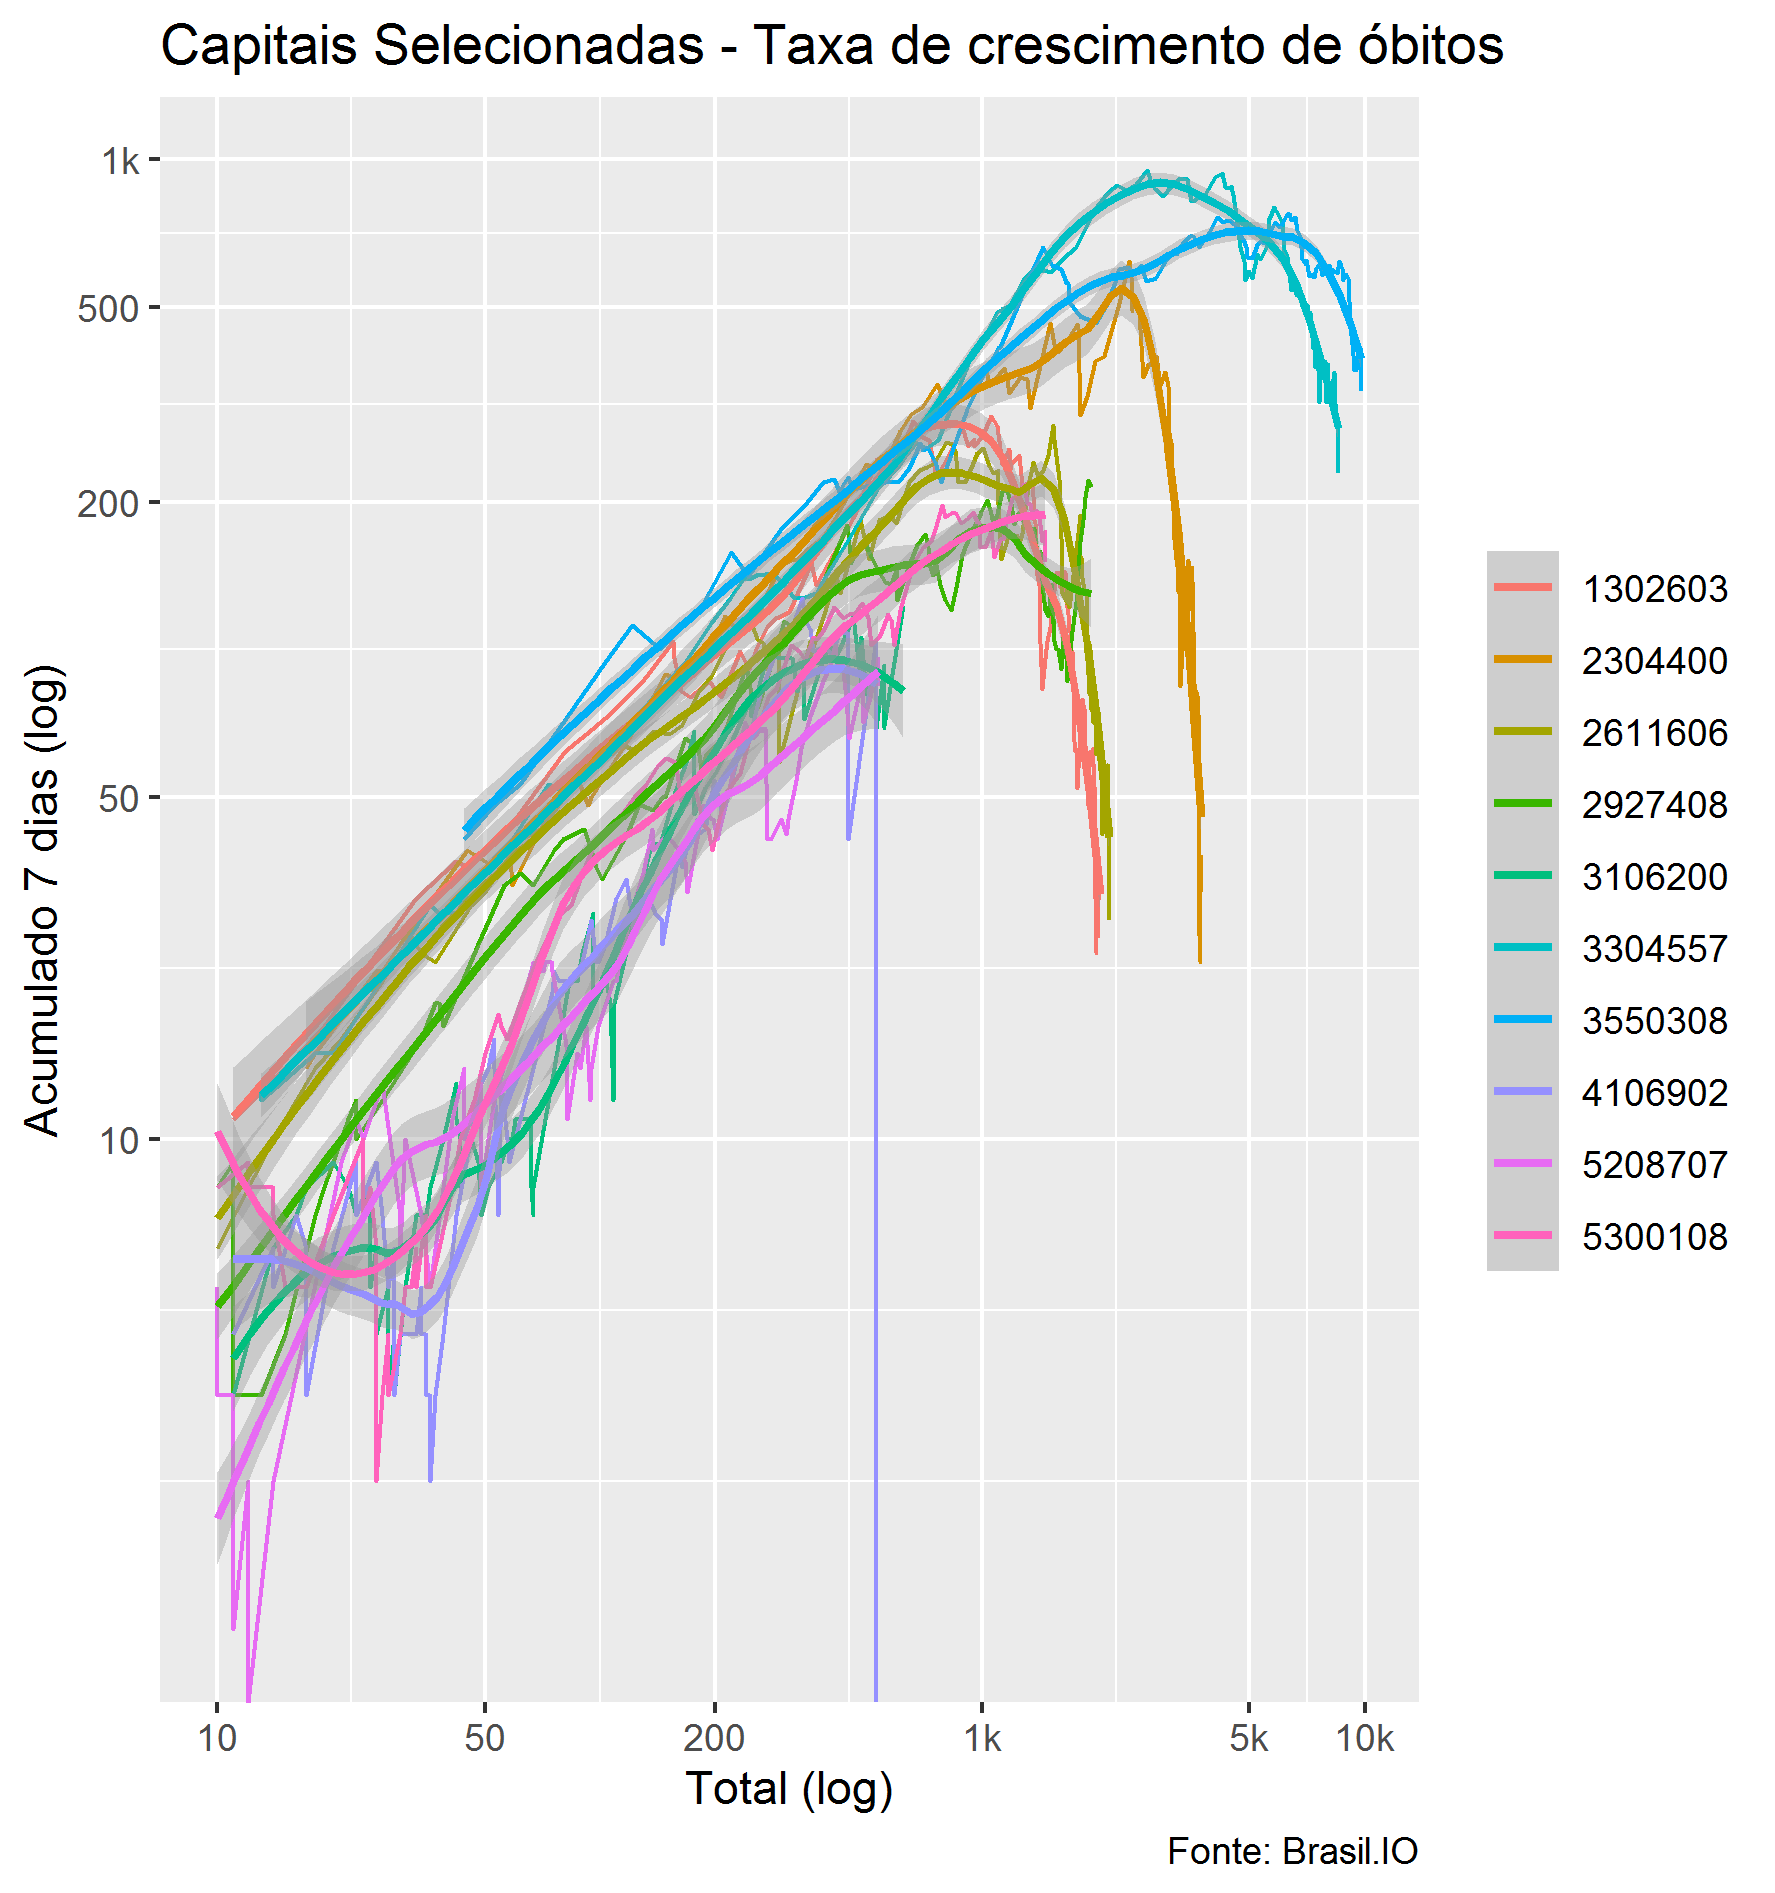
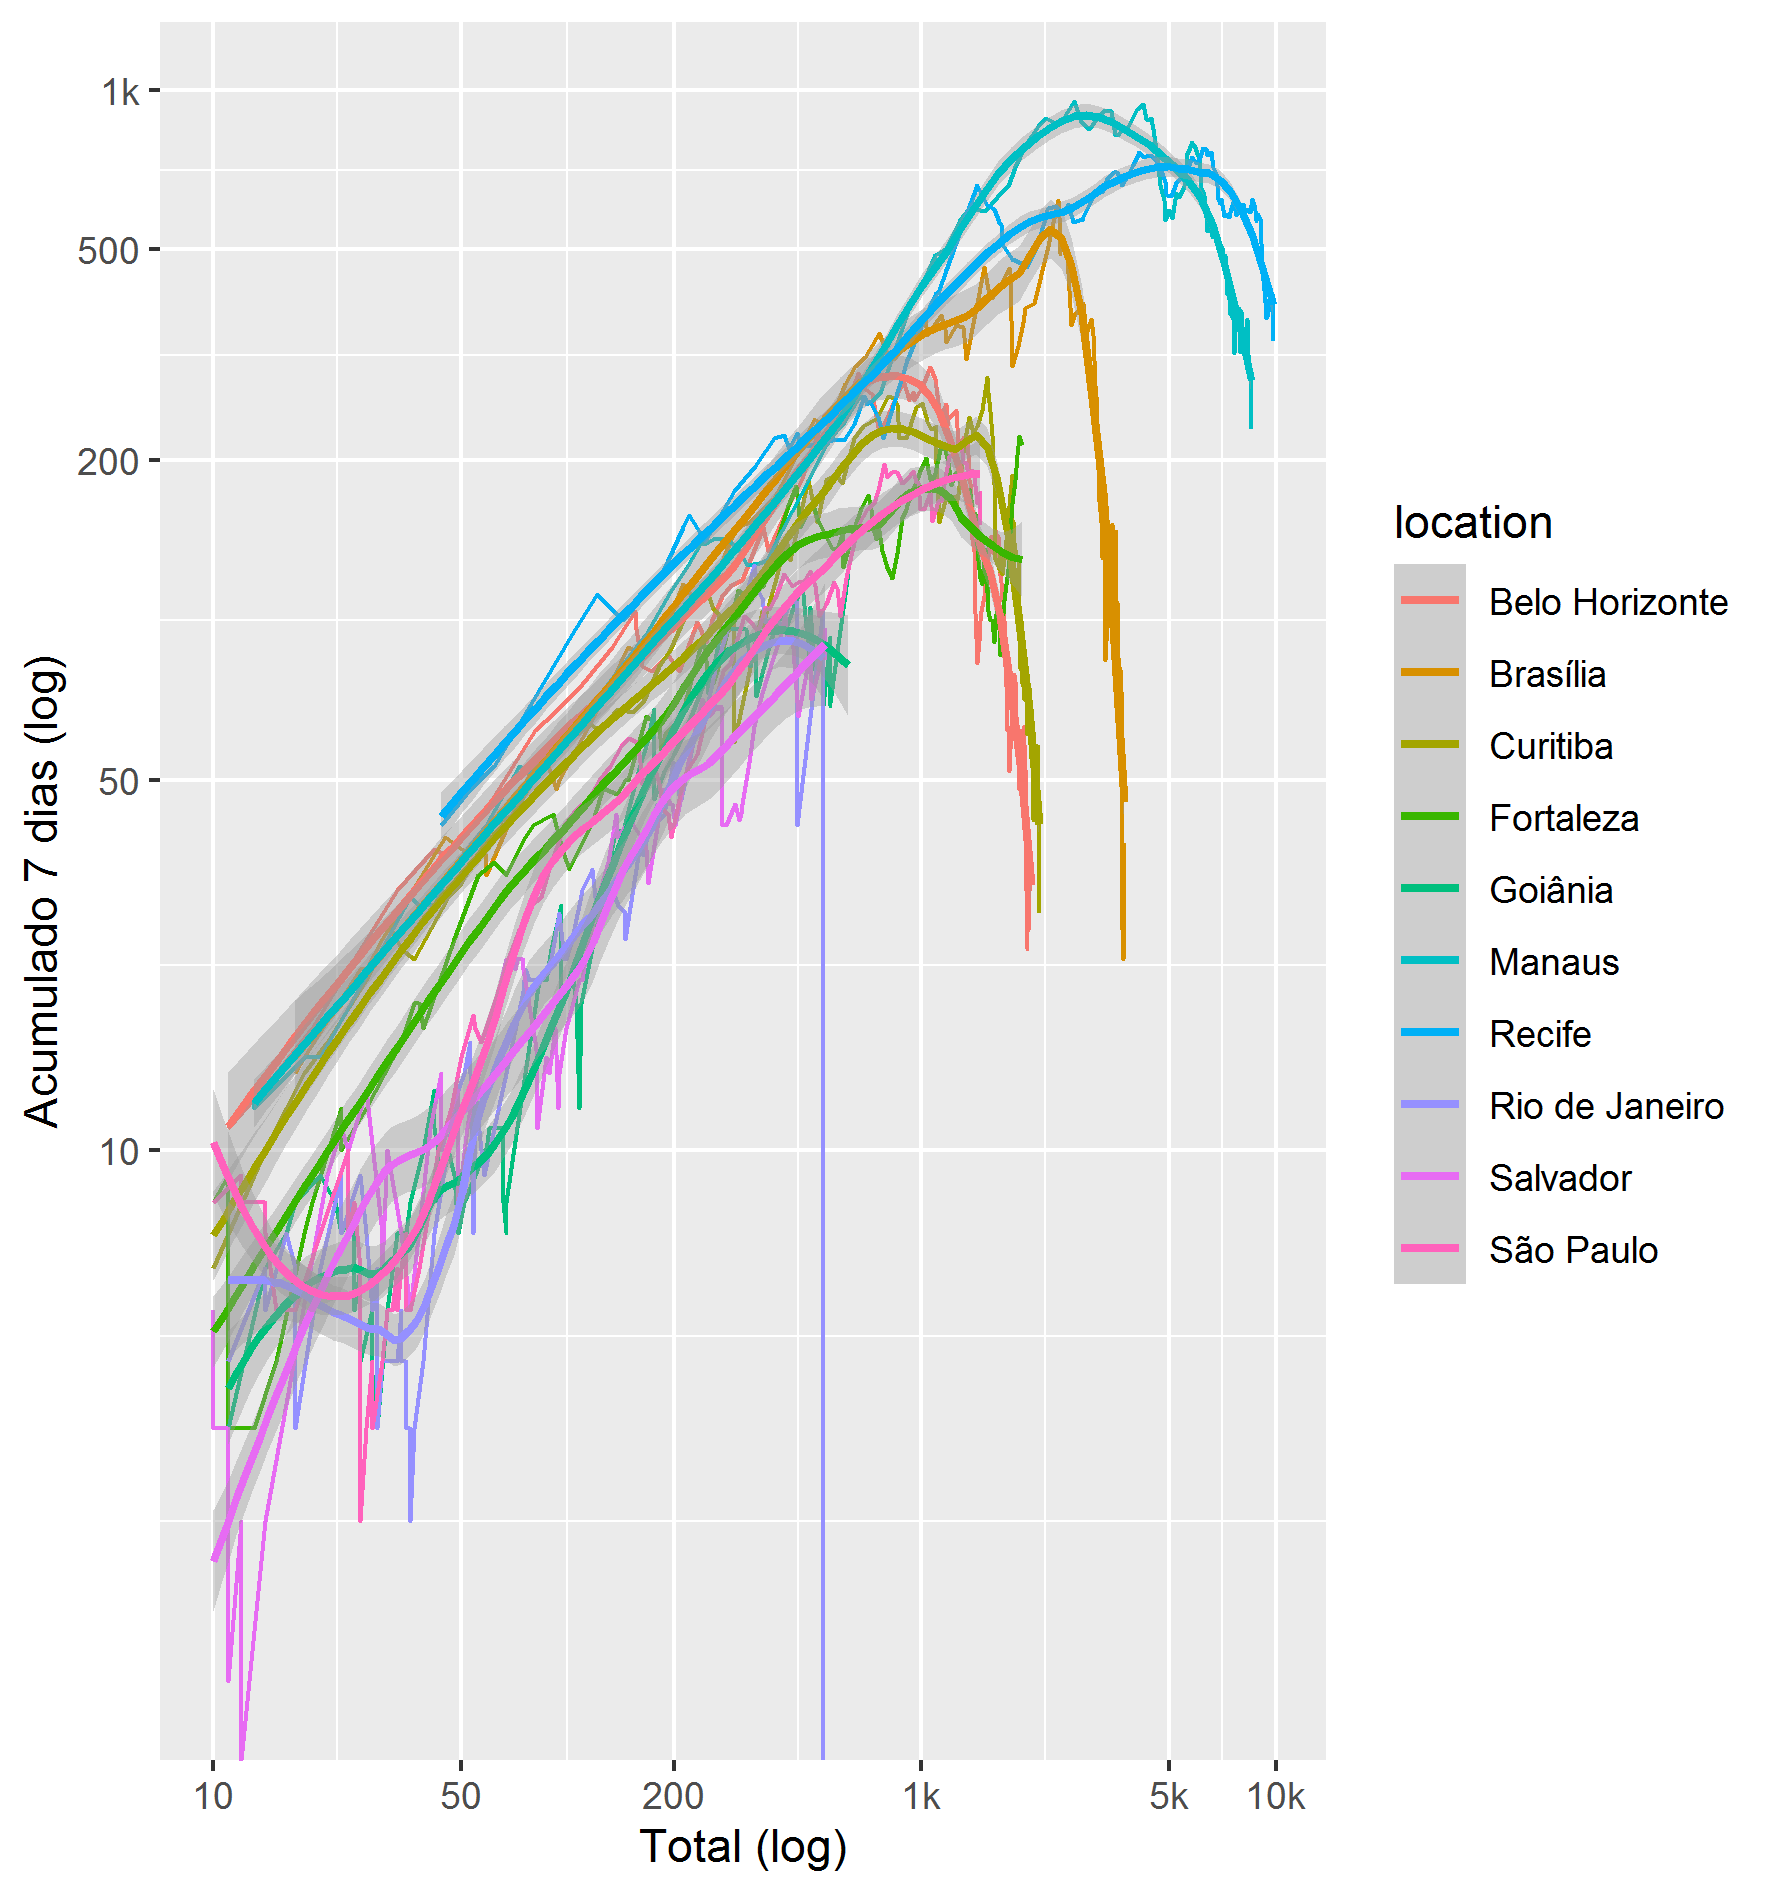
README.md: Fixed labels and city plot filename references savePlots.R: Added city names to legend Updated cities plots

diff --git a/README.md b/README.md
@@ -1,7 +1,7 @@
 # Gráficos sobre a pandemia de COVID-19 no Brasil
 Atualizados diariamente, se tudo correr bem :smile:
 
-## 1 - Nacional e Estados Selecionados, Índice de Crescimento de Óbitos
+## 1 - Estados Selecionados, Índice de Crescimento de Óbitos
 ![Nacional e Estados - Índice de Crescimento de Óbitos](plots/states_gl7.svg "Nacional e Estados - Índice de Crescimento de Óbitos")
 
 ## 2 - Capitais Selecionadas, Índice de Crescimento de Óbitos
@@ -20,14 +20,14 @@ Atualizados diariamente, se tudo correr bem :smile:
 ![Paraná - Índice de Crescimento](plots/PR_gl7.svg "Paraná - Índice de Crescimento")
 
 ## 5 - Cidades Selecionadas, Crescimento e Média
-![São Paulo - Índice de Crescimento]("plots/3550308_gl7.svg")
-![Rio de Janeiro - Índice de Crescimento]("plots/3304557_gl7.svg")
-![Belo Horizonte - Índice de Crescimento]("plots/3106200_gl7.svg")
-![Brasília - Índice de Crescimento]("plots/5300108_gl7.svg")
-![Curitiba - Índice de Crescimento]("plots/4106902_gl7.svg")
+![São Paulo - Índice de Crescimento](plots/3550308_gl7.svg)
+![Rio de Janeiro - Índice de Crescimento](plots/3304557_gl7.svg)
+![Belo Horizonte - Índice de Crescimento](plots/3106200_gl7.svg)
+![Brasília - Índice de Crescimento](plots/5300108_gl7.svg)
+![Curitiba - Índice de Crescimento](plots/4106902_gl7.svg)
 
-![São Paulo - Média Móvel]("plots/3550308_m7.svg")
-![Rio de Janeiro - Média Móvel]("plots/3304557_m7.svg")
-![Belo Horizonte - Média Móvel]("plots/3106200_m7.svg")
-![Brasília - Média Móvel]("plots/5300108_m7.svg")
-![Curitiba - Média Móvel]("plots/4106902_m7.svg")
+![São Paulo - Média Móvel](plots/3550308_m7.svg)
+![Rio de Janeiro - Média Móvel](plots/3304557_m7.svg)
+![Belo Horizonte - Média Móvel](plots/3106200_m7.svg)
+![Brasília - Média Móvel](plots/5300108_m7.svg)
+![Curitiba - Média Móvel](plots/4106902_m7.svg)
